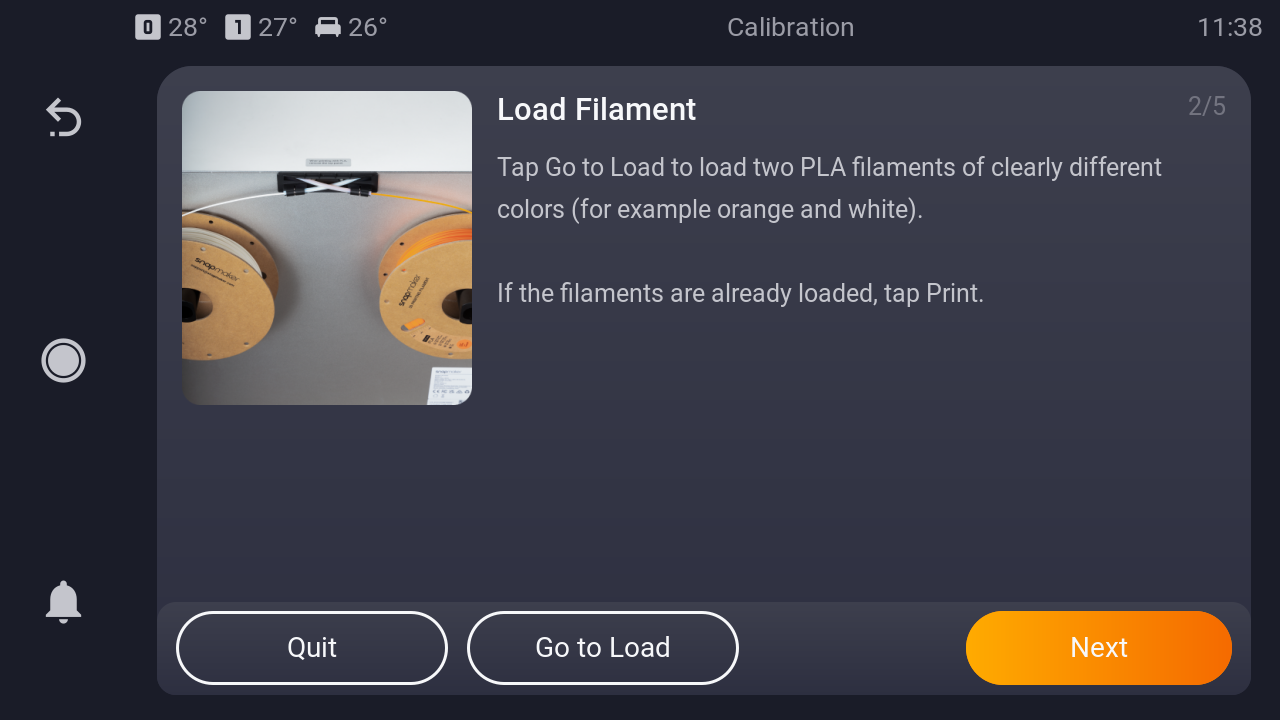
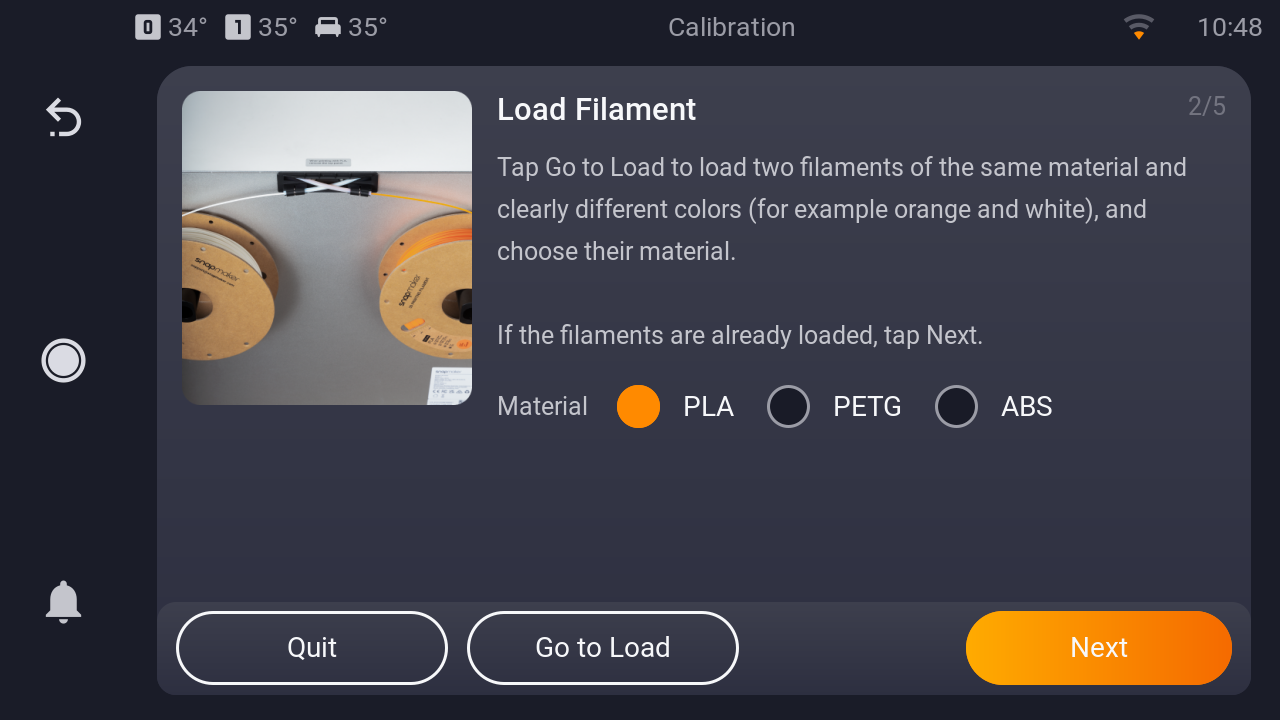
Docs: New home page in the title picture, current screenshots
- Title picture of the README: the display shows the new home page
- README: a button to the user manual below the title picture; home
  page instead of main menu and service page
- Manual screenshots: Move, More, Light (dim settings while printing),
  load step of the test prints (material choice)

diff --git a/README.md b/README.md
@@ -4,6 +4,10 @@
 <img src="docs/img/klipper-snapmaker-j1.png" width="900" alt="Snapmaker J1 running Klipper">
 </p>
 
+<p align="center">
+<a href="docs/Manual.md"><img src="https://img.shields.io/badge/User_manual-every_screen,_step_by_step-ff8a00?style=for-the-badge&logo=bookstack&logoColor=white" alt="User manual: every screen, step by step"></a>
+</p>
+
 <table>
 <tr>
 <td>
@@ -39,7 +43,7 @@ guided calibrations, the pictures and the animations of the J1.  No extra
 Raspberry Pi, no extra screen, no wiring.
 
 <p align="center">
-<img src="docs/manual/main-menu.png" width="860" alt="Main menu on the J1 touch screen">
+<img src="docs/manual/main-menu.png" width="860" alt="Home page on the J1 touch screen">
 </p>
 
 ## Why Klipper on the J1
@@ -52,8 +56,9 @@ Raspberry Pi, no extra screen, no wiring.
   Klipper community.
 - **A web interface.** Mainsail in every browser of your network: watch
   and control prints, upload files, edit the configuration.
-- **A service page.** Heat the nozzles, load and unload filament (both
-  at once), move the nozzles in for cleaning, distribute fresh grease.
+- **A home page for the daily work.** Heat the nozzles and the bed
+  with temperature gauges, load and unload filament (both at once), move
+  the nozzles in for cleaning, distribute fresh grease.
 - **A webcam.** Plug a USB webcam into the USB port of the display module
   and watch the print in Mainsail.
 
@@ -172,7 +177,7 @@ installer) and the Klipper system in the folder `install`.
 
 > [!CAUTION]
 > **This takes a while: about 7 minutes.  Do not pull the USB
-> stick and do not switch the printer off until the Klipper main menu
+> stick and do not switch the printer off until the Klipper home page
 > appears.**  The printer restarts by itself on the way and the screen
 > stays dark for a while; that is normal.  A stick pulled in the middle can
 > leave the printer unable to start.
@@ -192,7 +197,7 @@ installer) and the Klipper system in the folder `install`.
      the files on the stick and writes the Klipper system (a few
      minutes);
    - the first start of Klipper installs the Klipper firmware on the
-     main controller (about a minute), then the Klipper main menu
+     main controller (about a minute), then the Klipper home page
      appears.
 4. **Connect to your network** under **More → Network → WLAN**
    (required).  The clock, the updates and the web interface need it;
